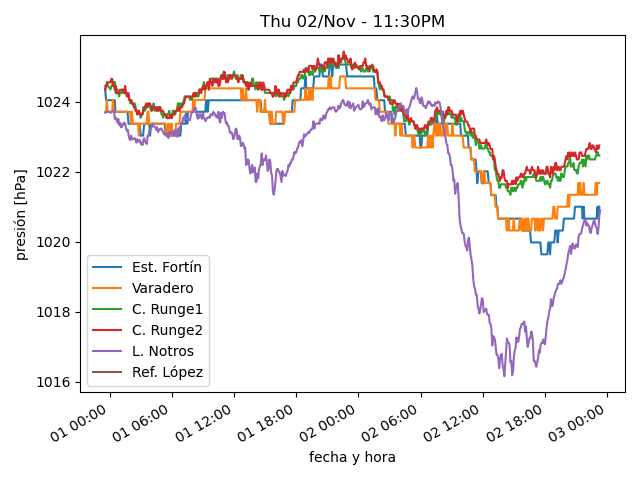
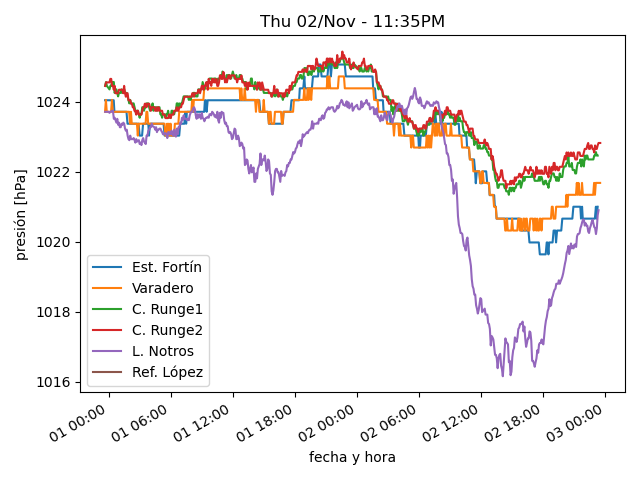
actualiza datos

diff --git a/estaciones/estacion4.html b/estaciones/estacion4.html
@@ -18,32 +18,32 @@
     </tr>
     <tr>
      <td class="stats_data">
-      11:14PM
+      11:29PM
      </td>
     </tr>
     <tr>
      <td class="stats_data">
-      7.3⁰C
+      7.2⁰C
      </td>
     </tr>
     <tr>
      <td class="stats_data">
-      0.3⁰C
+      0.1⁰C
      </td>
     </tr>
     <tr>
      <td class="stats_data">
-      61.1%
+      60.7%
      </td>
     </tr>
     <tr>
      <td class="stats_data">
-      1019.74hPa
+      1019.81hPa
      </td>
     </tr>
     <tr>
      <td class="stats_data">
-      3.0/5.1 km/hr SW
+      3.3/6.0 km/hr SSW
      </td>
     </tr>
     <tr>

diff --git a/estaciones/estacion2.html b/estaciones/estacion2.html
@@ -18,22 +18,22 @@
     </tr>
     <tr>
      <td class="stats_data">
-      11:14PM
+      11:29PM
      </td>
     </tr>
     <tr>
      <td class="stats_data">
-      8.8⁰C
+      8.9⁰C
      </td>
     </tr>
     <tr>
      <td class="stats_data">
-      3.5⁰C
+      4.2⁰C
      </td>
     </tr>
     <tr>
      <td class="stats_data">
-      69.6%
+      72.7%
      </td>
     </tr>
     <tr>
@@ -43,7 +43,7 @@
     </tr>
     <tr>
      <td class="stats_data">
-      17.8/23.5 km/hr W
+      20.9/26.0 km/hr WNW
      </td>
     </tr>
     <tr>
